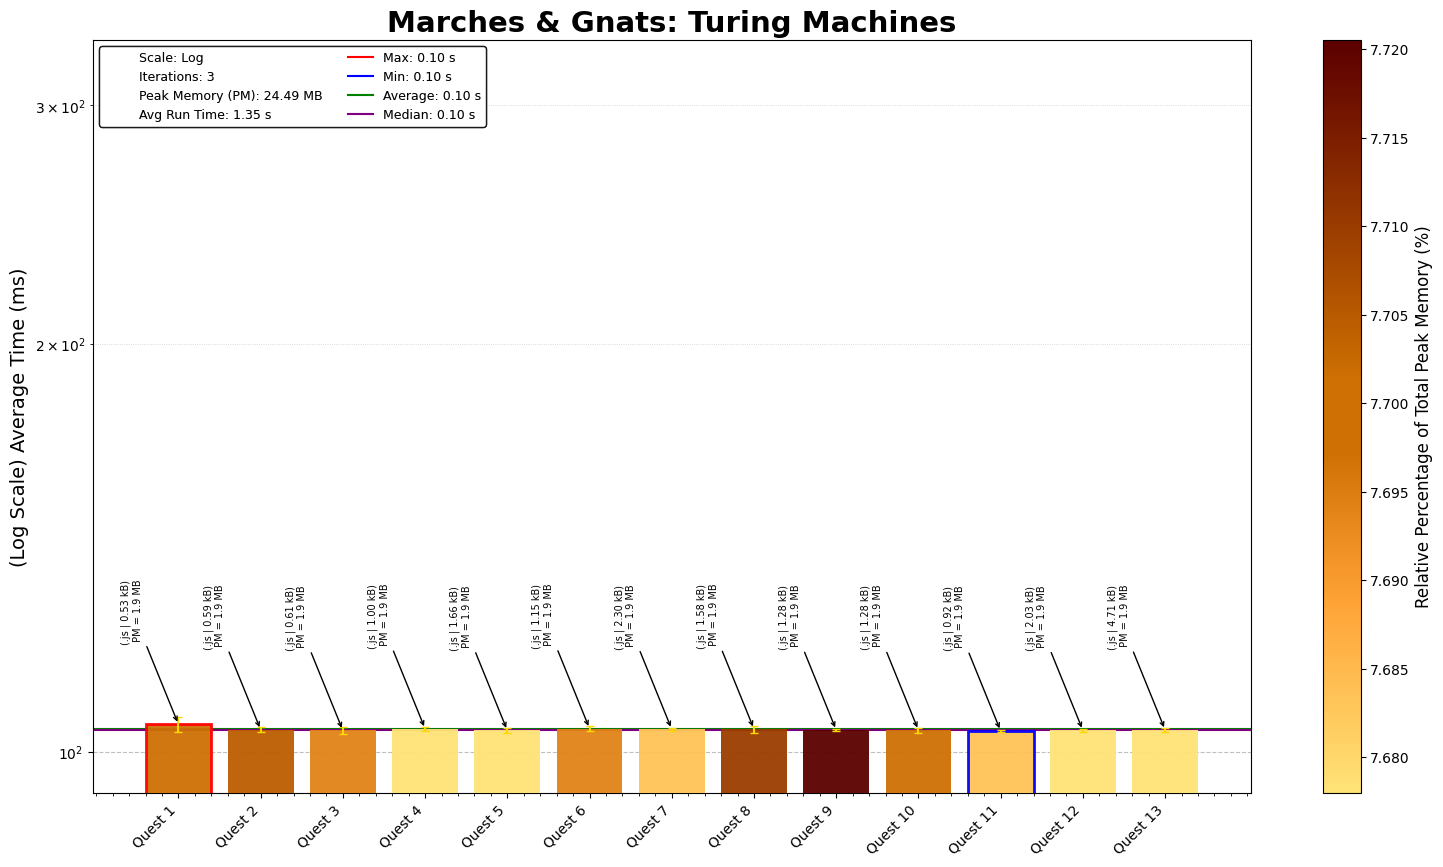
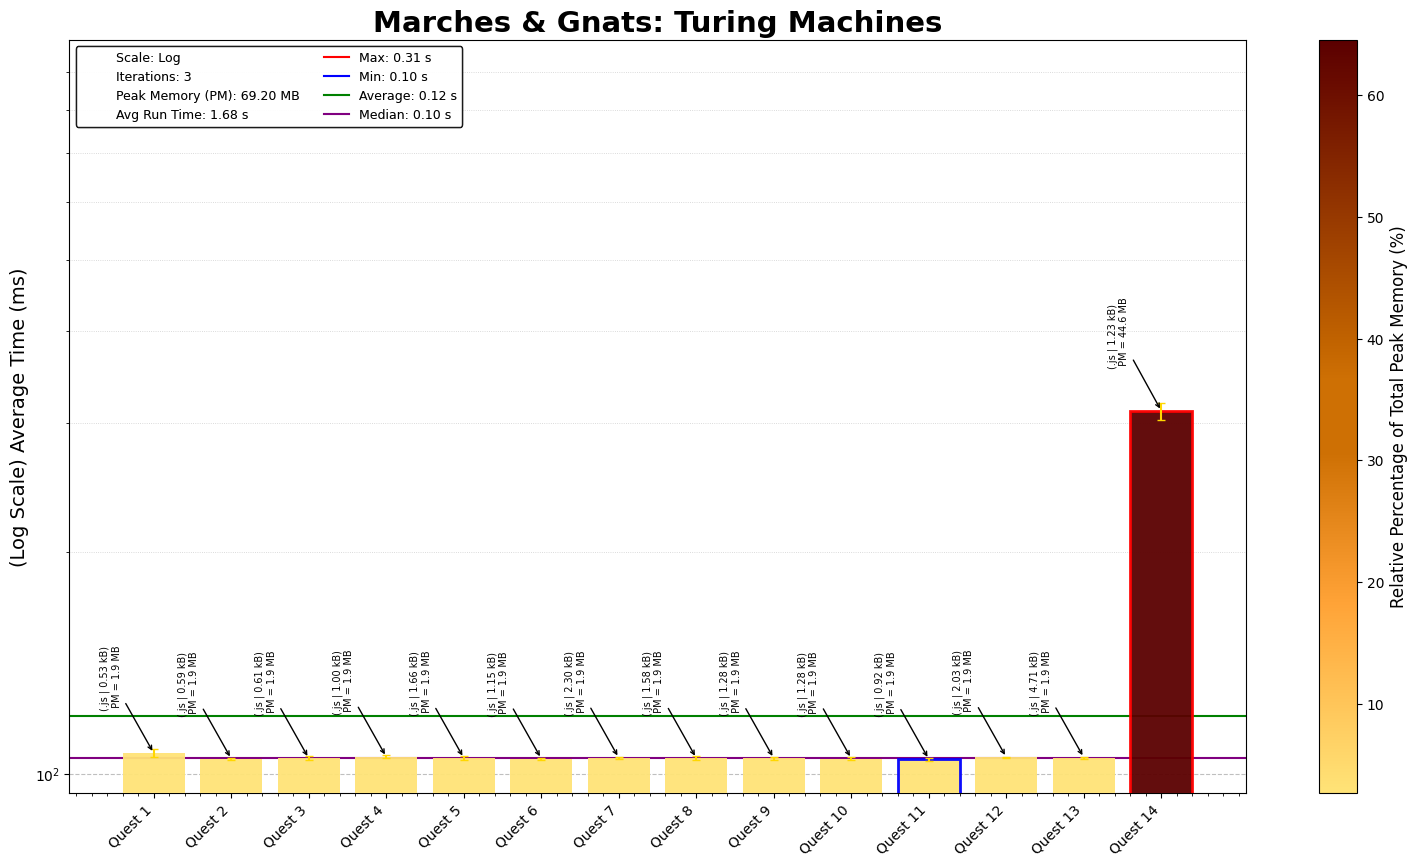
MNG Quest 14: Bin to Dec

diff --git a/MNG/Quest_14/MNGQuest_14.js b/MNG/Quest_14/MNGQuest_14.js
@@ -1,0 +1,47 @@
+/* Marches And Gnatts - Quest 14
+Solution Started: August 23, 2025
+Puzzle Link: https://mng.quest/leaderboard/quest/14/binary-to-decimal
+Solution by: Abbas Moosajee
+Brief: [Binary to Decimal]
+*/
+
+import { MNG_ARENA } from '../MNG_ARENA.js';
+
+const dec_inc_rules = `// binary to decimal
+INIT 0 START_COUNT 0 R
+INIT 1 START_COUNT 1 R
+START_COUNT _ HALT _ R
+START_COUNT 0 CONTINUE 0 R
+START_COUNT 1 CONTINUE 1 R
+CONTINUE 0 CONTINUE 0 R
+CONTINUE 1 CONTINUE 1 R
+CONTINUE _ INC_BIN _ L
+GO_START _ START_COUNT _ R
+GO_START 1 GO_START 1 R
+GO_START 0 GO_START 0 R
+INC_BIN 1 INC_BIN2 0 L
+INC_BIN 0 INC_BIN 1 L
+INC_BIN _ CLEAN _ R
+INC_BIN2 1 INC_BIN2 1 L
+INC_BIN2 0 INC_BIN2 0 L
+INC_BIN2 _ INC_DEC _ L
+INC_DEC 0 GO_START 1 R
+INC_DEC 1 GO_START 2 R
+INC_DEC 2 GO_START 3 R
+INC_DEC 3 GO_START 4 R
+INC_DEC 4 GO_START 5 R
+INC_DEC 5 GO_START 6 R
+INC_DEC 6 GO_START 7 R
+INC_DEC 7 GO_START 8 R
+INC_DEC 8 GO_START 9 R
+INC_DEC 9 INC_DEC 0 L
+INC_DEC _ GO_START 1 R
+CLEAN 1 CLEAN _ R
+CLEAN _ HALT _ L
+`;
+
+const bin_dec = new MNG_ARENA("bin_to_dec")
+bin_dec.full_solution(dec_inc_rules);
+bin_dec.benchmark_solution(["1010", "1111", "101010110001"], false)
+// bin_dec.test_solution("1010", true)
+bin_dec.save_rules(import.meta.url);

diff --git a/MNG/ReadME_MNG.md b/MNG/ReadME_MNG.md
@@ -29,5 +29,6 @@ Here's your combined table with all **Quest titles, descriptions, links, steps, 
 | Quest 11 | Decimal Increment           | Increment a decimal number by one.                | [View Solution](11/MNGDay11.js) | 444       | 22    |
 | Quest 12 | Decimal Addition           | Add up two decimal numbers.                | [View Solution](12/MNGDay12.js) | 58687       | 118    |
 | Quest 13 | Unary Array Sort           | Sort a list of unary numbers                | [View Solution](13/MNGDay13.js) | 2,698,859       | 2,182    |
+| Quest 14 | Binary to Decimal           | Sonvert a binary num to decimal                | [View Solution](13/MNGDay13.js) | 160,454       | 30    |
 
 ---
